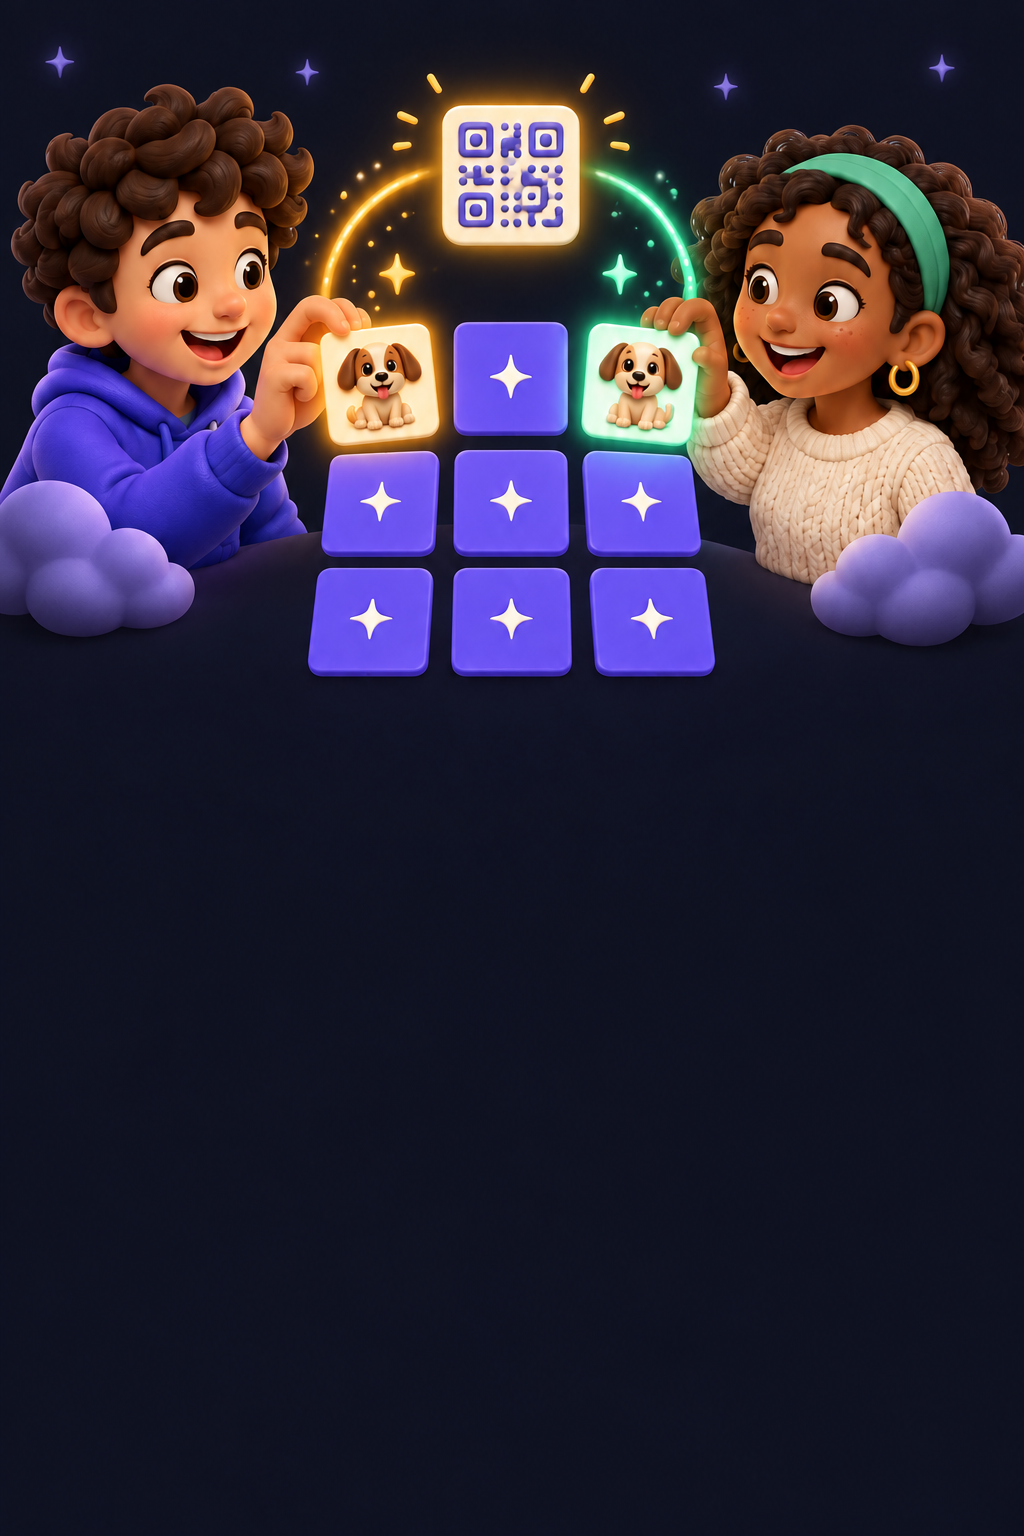
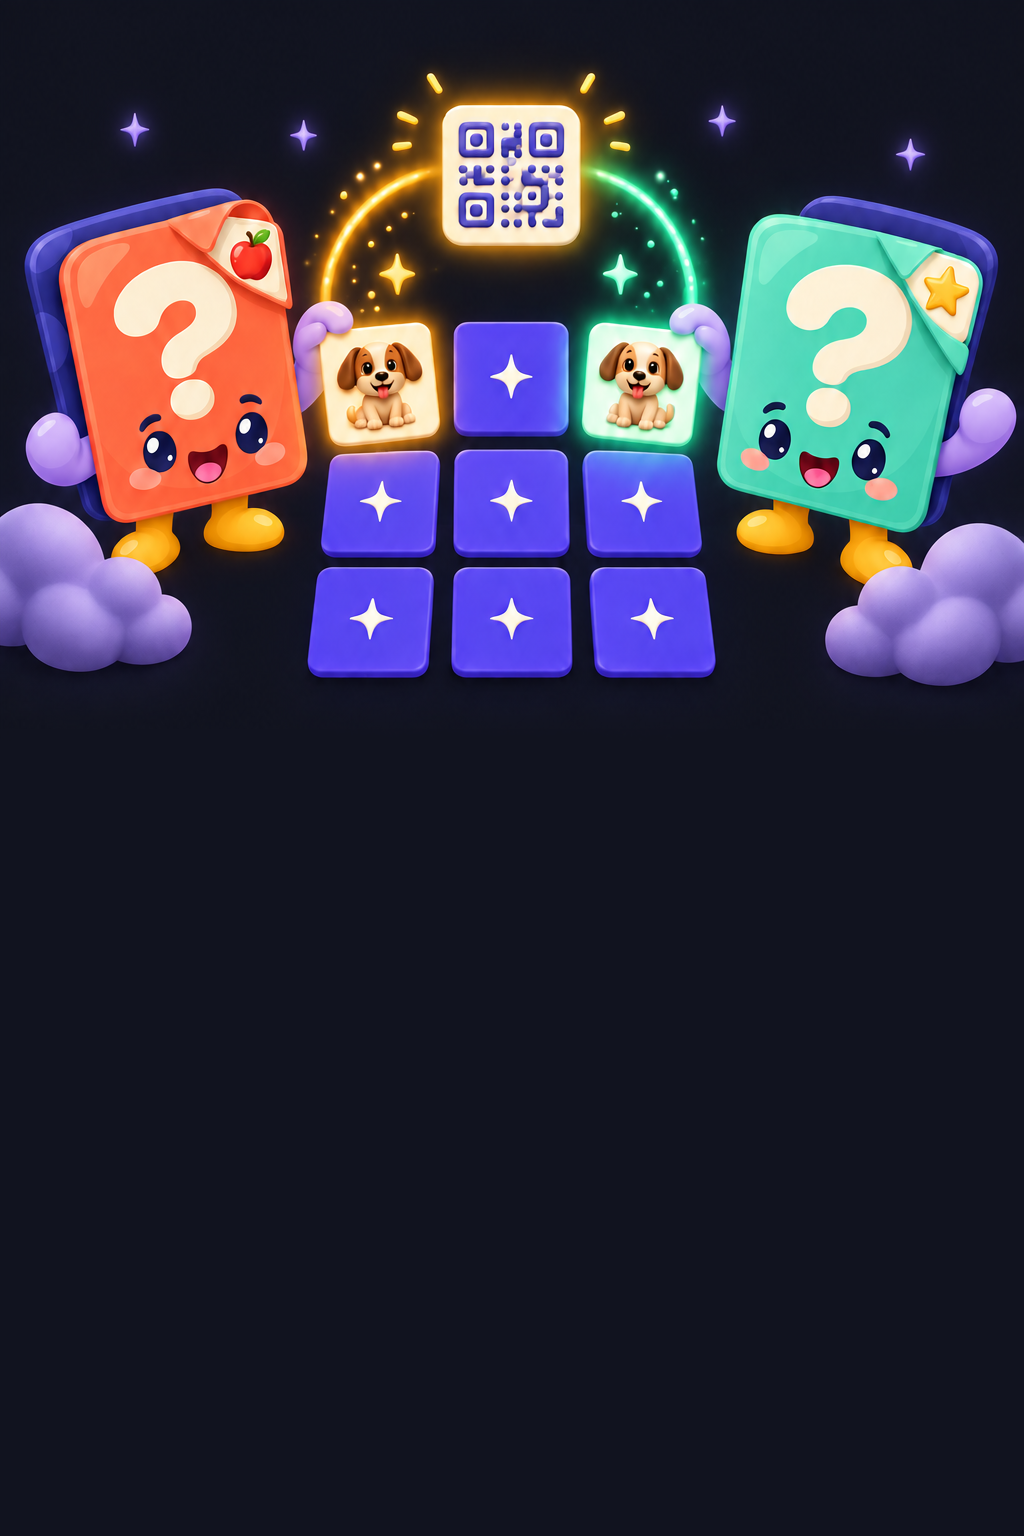
Replace the onboarding and review-invitation art with Flippo (#90)
* Replace the onboarding and review-invitation art with Flippo

The three first-launch onboarding illustrations (Play with Friends, Make It
Yours, Come Back Daily; light and dark) and the ReviewFlow review-invitation
illustration (onboarding-five-star-rating) showed two human children. They now
show Flippo, the app's card mascot, and a teal card friend, keeping the
composition, props and soft 3D clay style. None of the art carries text, so no
locale needs its own assets.

The onboarding JPGs keep their 1024x1536 canvas, their backgrounds match
appBackground in each appearance, and each scene stays inside the top 48% that
IntroCarouselView reserves for it. Android's drawable-nodpi onboarding images
are byte-identical to the iOS ones and change in the same commit. The review
art stays a transparent 1200x1500 PNG. The source PNGs in assets/onboarding/
are updated to match.

No code or Contents.json changes.

* Note that the review-invitation art is only visible in the debug menu

---------

diff --git a/ios/CHANGELOG.md b/ios/CHANGELOG.md
@@ -2,6 +2,11 @@
 
 All notable changes to this project will be documented in this file.
 
+[Unreleased]
+
+### Changed
+- Redrew the first-launch onboarding illustrations ("Play with Friends", "Make It Yours", "Come Back Daily", light and dark) and the review-invitation illustration (`onboarding-five-star-rating`) around Flippo, the app's card mascot, and a teal card friend, replacing the two human children they showed before. Composition, props and the soft 3D clay style are unchanged, and the art still carries no text, so no locale needs new assets. The onboarding backgrounds now match the app background colour in both appearances and each scene stays inside the top 48% that `IntroCarouselView` reserves for it; the review art remains a transparent 1200x1500 PNG. Players only see the new onboarding art. The review art appears only in the debug menu's `ReviewInvitationFullScreen` preview, because the app still does not present that view to players. Android's onboarding drawables are the same files, so both platforms change together, and the source art in `assets/onboarding/` is updated to match. No code changes.
+
 [4.3.0] 17-09-2026
 
 ### Fixed
